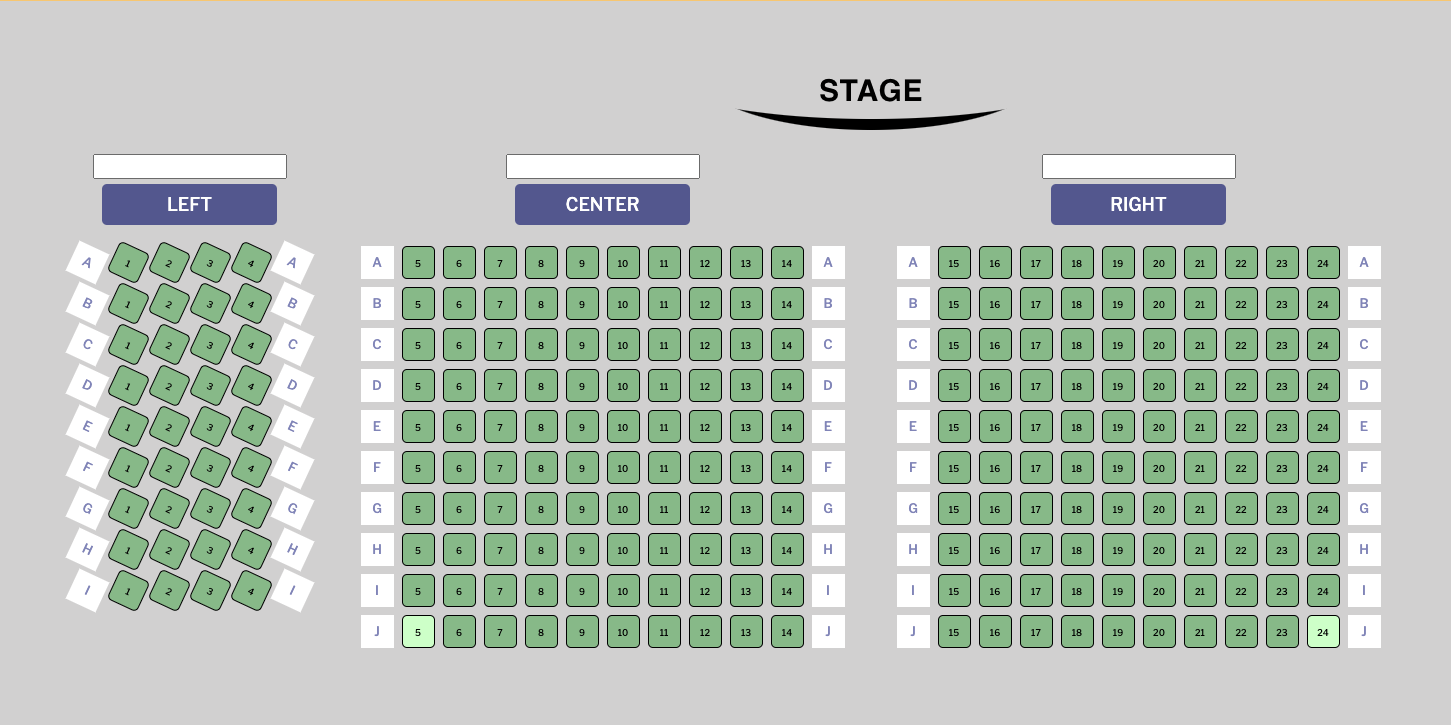
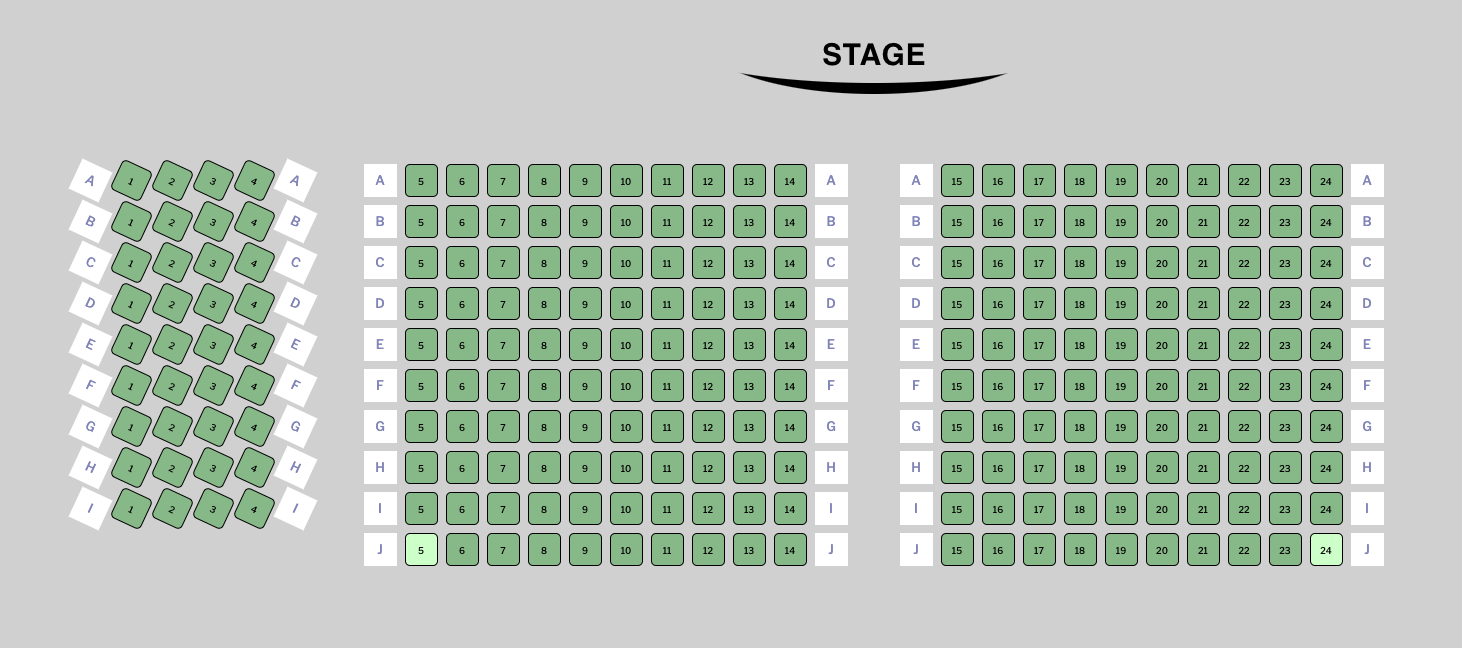
new venues

diff --git a/Completed/37141.html b/Completed/37141.html
@@ -1,0 +1,191 @@
+<!-- RMS Musical - Gym Seating -->
+<style>
+  .manual-margin {
+    margin: auto;
+    margin-top: 10px;
+  }
+  .border-purple {
+    border: 2px solid purple;
+  }
+  .border-magenta {
+    border: 2px solid magenta;
+  }
+  .border-blue {
+    border: 2px solid skyblue;
+  }
+</style>
+
+<table width="100%" border="0" cellspacing="0" cellpadding="0" align="center">
+  <!-- Stage Image -->
+  <tr>
+    <td>
+      <div align="center">
+        <img
+          src="https://s3.amazonaws.com/prdv2-dt-client/seating_images/stage.png"
+          alt="STAGE"
+          width="300"
+          height="80"
+        />
+      </div>
+    </td>
+  </tr>
+
+  <tr>
+    <td>
+      <div align="center">
+        <img
+          src="https://s3.amazonaws.com/prdv2-dt-client/seating_images/pixel.png"
+          width="1"
+          height="10"
+        />
+      </div>
+    </td>
+  </tr>
+
+  <!-- ALL -->
+  <tr>
+    <td>
+      <div align="center">
+        <table align="center">
+          <!-- Names -->
+          <tr>
+            <td>
+              <div class="manual-margin front-indicator" align="center">
+                LEFT
+              </div>
+            </td>
+            <td rowspan="3">
+              <div align="center">
+                <img
+                  src="https://s3.amazonaws.com/prdv2-dt-client/seating_images/pixel.png"
+                  width="80"
+                  height="1"
+                />
+              </div>
+            </td>
+            <td>
+              <div class="manual-margin front-indicator" align="center">
+                CENTER
+              </div>
+            </td>
+            <td rowspan="3">
+              <div align="center">
+                <img
+                  src="https://s3.amazonaws.com/prdv2-dt-client/seating_images/pixel.png"
+                  width="80"
+                  height="1"
+                />
+              </div>
+            </td>
+            <td>
+              <div class="manual-margin front-indicator" align="center">
+                RIGHT
+              </div>
+            </td>
+          </tr>
+
+          <tr>
+            <td>
+              <div align="center">
+                <img
+                  src="https://s3.amazonaws.com/prdv2-dt-client/seating_images/pixel.png"
+                  width="1"
+                  height="10"
+                />
+              </div>
+            </td>
+          </tr>
+
+          <!-- Seats -->
+          <tr>
+            <!-- Left -->
+            <td>
+              <div align="center">
+                <table
+                  align="center"
+                  border="0"
+                  cellspacing="0"
+                  cellpadding="0"
+                >
+                  <tr>
+                    <td>
+                      <div class="border-blue" align="center">
+                        {{{ sectionsMarkup.48535 }}}
+                      </div>
+                    </td>
+                  </tr>
+                  <tr>
+                    <td>
+                      <div class="border-purple" align="center">
+                        {{{ sectionsMarkup.48536 }}}
+                      </div>
+                    </td>
+                  </tr>
+                </table>
+              </div>
+            </td>
+            <!-- Center -->
+            <td valign="top">
+              <div align="center">
+                <table
+                  align="center"
+                  border="0"
+                  cellspacing="0"
+                  cellpadding="0"
+                >
+                  <tr>
+                    <td>
+                      <div class="border-magenta" align="center">
+                        {{{ sectionsMarkup.48537 }}}
+                      </div>
+                    </td>
+                  </tr>
+                  <tr>
+                    <td>
+                      <div class="border-blue" align="center">
+                        {{{ sectionsMarkup.48538 }}}
+                      </div>
+                    </td>
+                  </tr>
+                  <tr>
+                    <td>
+                      <div class="border-purple" align="center">
+                        {{{ sectionsMarkup.48539 }}}
+                      </div>
+                    </td>
+                  </tr>
+                </table>
+              </div>
+            </td>
+            <!-- Right -->
+            <td>
+              <div align="center">
+                <table
+                  align="center"
+                  border="0"
+                  cellspacing="0"
+                  cellpadding="0"
+                >
+                  <tr>
+                    <td>
+                      <div class="border-blue" align="center">
+                        {{{ sectionsMarkup.48540 }}}
+                      </div>
+                    </td>
+                  </tr>
+                  <tr>
+                    <td>
+                      <div class="border-purple" align="center">
+                        {{{ sectionsMarkup.48541 }}}
+                      </div>
+                    </td>
+                  </tr>
+                </table>
+              </div>
+            </td>
+          </tr>
+        </table>
+      </div>
+    </td>
+  </tr>
+</table>

diff --git a/Completed/37139.html b/Completed/37139.html
@@ -1,0 +1,129 @@
+<!-- Williamston Hight School -->
+<table width="100%" border="0" cellspacing="0" cellpadding="0" align="center">
+  <!-- Stage Image -->
+  <tr>
+    <td>
+      <div align="center">
+        <img
+          src="https://s3.amazonaws.com/prdv2-dt-client/seating_images/stage.png"
+          alt="STAGE"
+          width="300"
+          height="80"
+        />
+      </div>
+    </td>
+  </tr>
+
+  <tr>
+    <td>
+      <div align="center">
+        <img
+          src="https://s3.amazonaws.com/prdv2-dt-client/seating_images/pixel.png"
+          width="1"
+          height="10"
+        />
+      </div>
+    </td>
+  </tr>
+
+  <!-- FRONT -->
+  <tr>
+    <td>
+      <div align="center">
+        <table align="center">
+          <!-- Front Names -->
+          <tr>
+            <td>
+              <div align="center">{{{ sectionNames.48530 }}}</div>
+            </td>
+            <td rowspan="2">
+              <div align="center">
+                <img
+                  src="https://s3.amazonaws.com/prdv2-dt-client/seating_images/pixel.png"
+                  width="40"
+                  height="1"
+                />
+              </div>
+            </td>
+            <td>
+              <div align="center">{{{ sectionNames.48531 }}}</div>
+            </td>
+          </tr>
+          <!-- Front Seats -->
+          <tr>
+            <td>
+              <div align="right">{{{ sectionsMarkup.48530 }}}</div>
+            </td>
+            <td>
+              <div align="left">{{{ sectionsMarkup.48531 }}}</div>
+            </td>
+          </tr>
+        </table>
+      </div>
+    </td>
+  </tr>
+
+  <tr>
+    <td>
+      <div align="center">
+        <img
+          src="https://s3.amazonaws.com/prdv2-dt-client/seating_images/pixel.png"
+          width="1"
+          height="80"
+        />
+      </div>
+    </td>
+  </tr>
+
+  <!-- BACK -->
+  <tr>
+    <td>
+      <div align="center">
+        <table align="center">
+          <!-- Back Names -->
+          <tr>
+            <td>
+              <div align="center">{{{ sectionNames.48532 }}}</div>
+            </td>
+            <td rowspan="2">
+              <div align="center">
+                <img
+                  src="https://s3.amazonaws.com/prdv2-dt-client/seating_images/pixel.png"
+                  width="80"
+                  height="1"
+                />
+              </div>
+            </td>
+            <td>
+              <div align="center">{{{ sectionNames.48533 }}}</div>
+            </td>
+            <td rowspan="2">
+              <div align="center">
+                <img
+                  src="https://s3.amazonaws.com/prdv2-dt-client/seating_images/pixel.png"
+                  width="80"
+                  height="1"
+                />
+              </div>
+            </td>
+            <td>
+              <div align="center">{{{ sectionNames.48534 }}}</div>
+            </td>
+          </tr>
+          <!-- Back Seats -->
+          <tr>
+            <td valign="top">
+              <div align="center">{{{ sectionsMarkup.48532 }}}</div>
+            </td>
+            <td>
+              <div align="center">{{{ sectionsMarkup.48533 }}}</div>
+            </td>
+            <td>
+              <div align="center">{{{ sectionsMarkup.48534 }}}</div>
+            </td>
+          </tr>
+        </table>
+      </div>
+    </td>
+  </tr>
+</table>

diff --git a/Completed/37027.html b/Completed/37027.html
@@ -74,30 +74,9 @@
                 <img
                   src="https://s3.amazonaws.com/prdv2-dt-client/seating_images/pixel.png"
                   width="1"
-                  height="8"
+                  height="50"
                 />
               </div>
-            </td>
-          </tr>
-          <!-- Names -->
-          <tr>
-            <td>
-              <div align="center">{{{ sectionNames.48345 }}}</div>
-            </td>
-            <td>
-              <div align="center">{{{ sectionNames.48346 }}}</div>
-            </td>
-            <td rowspan="2">
-              <div align="center">
-                <img
-                  src="https://s3.amazonaws.com/prdv2-dt-client/seating_images/pixel.png"
-                  width="40"
-                  height="1"
-                />
-              </div>
-            </td>
-            <td>
-              <div align="center">{{{ sectionNames.48347 }}}</div>
             </td>
           </tr>
           <!-- Seats -->
@@ -107,6 +86,15 @@
             </td>
             <td>
               <div align="center">{{{ sectionsMarkup.48346 }}}</div>
+            </td>
+            <td>
+              <div align="center">
+                <img
+                  src="https://s3.amazonaws.com/prdv2-dt-client/seating_images/pixel.png"
+                  width="40"
+                  height="1"
+                />
+              </div>
             </td>
             <td>
               <div align="center">{{{ sectionsMarkup.48347 }}}</div>
